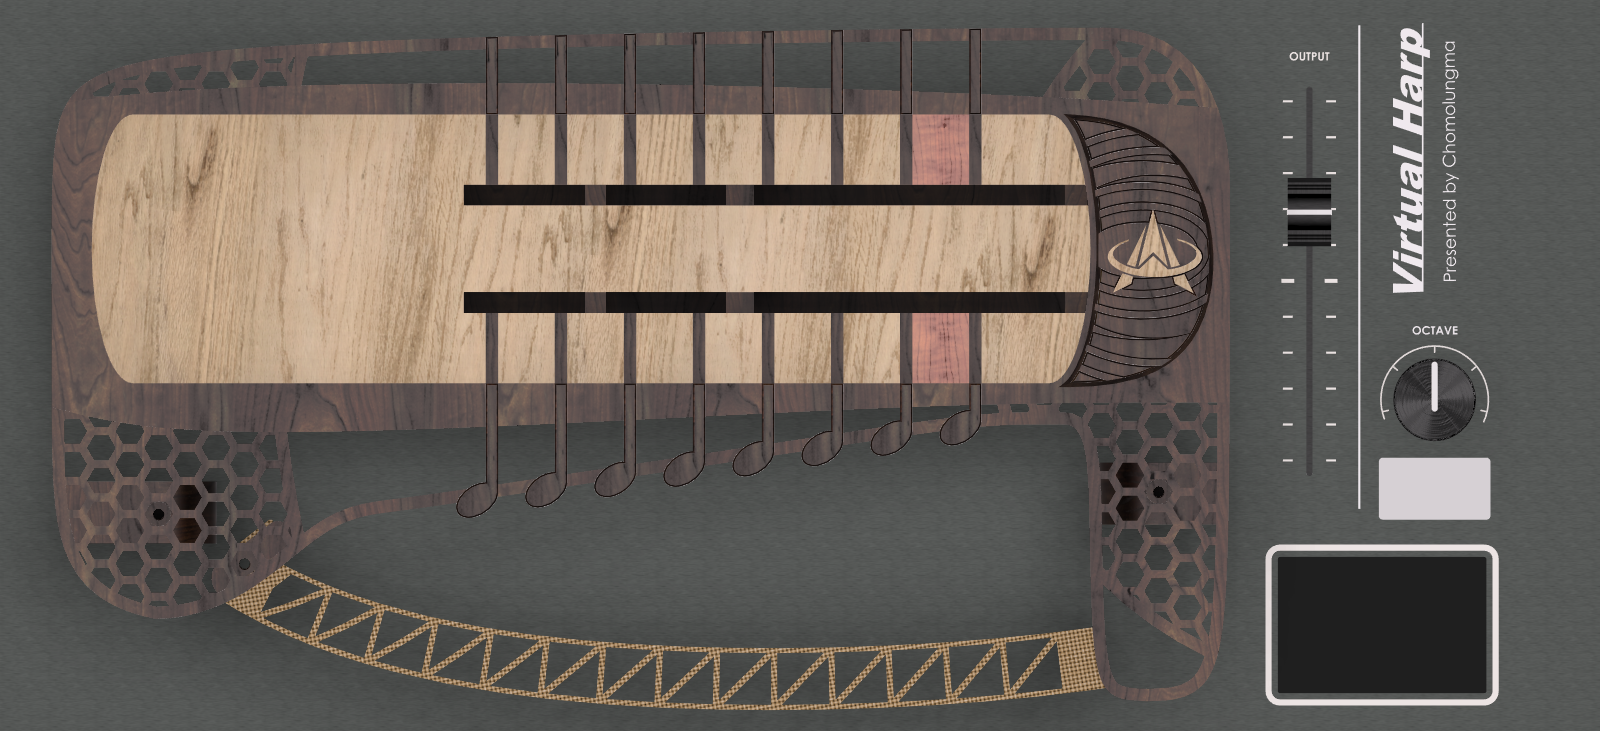
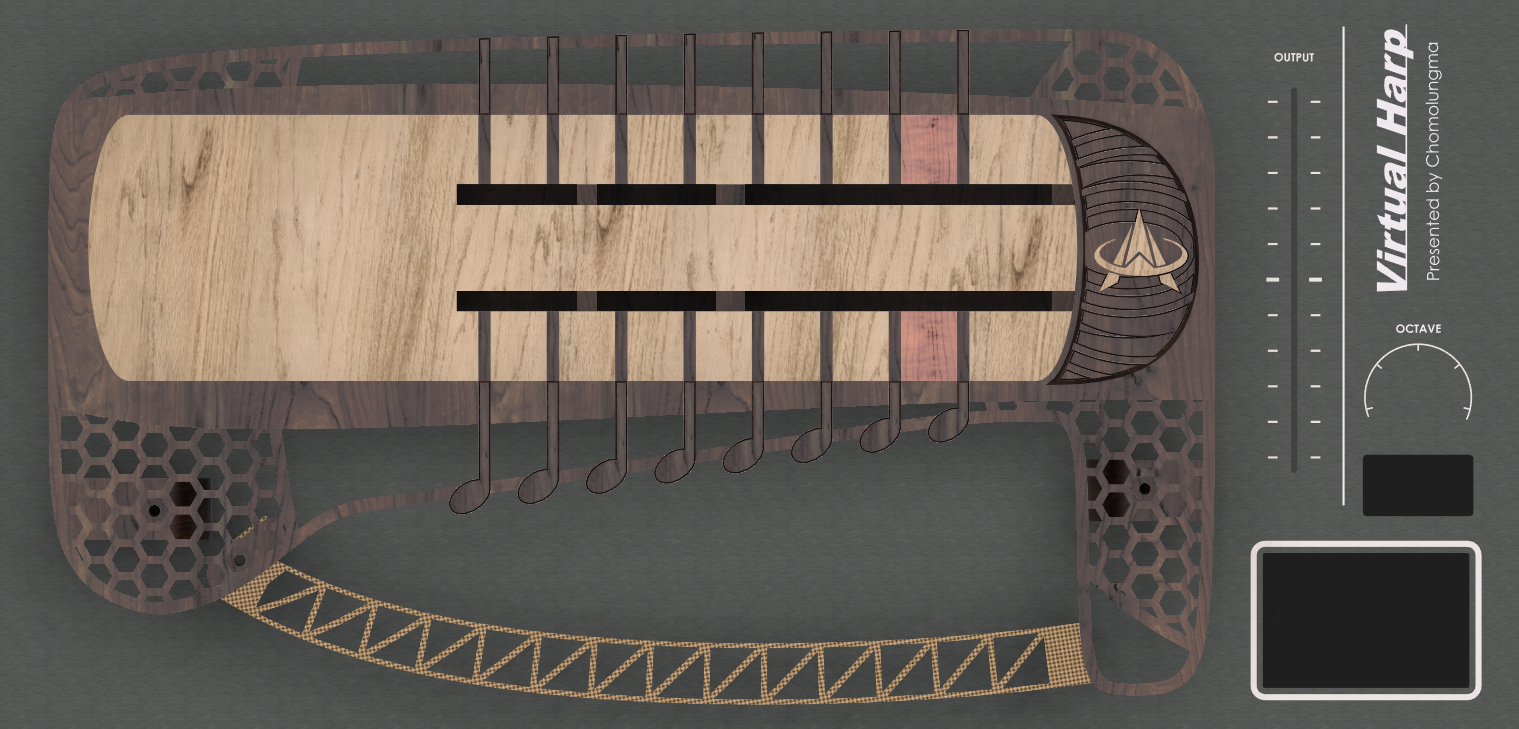
メインの画像と弦の位置を設定

diff --git a/string_simulator/main.cpp b/string_simulator/main.cpp
@@ -430,7 +430,7 @@ private:
 
 public:
 	Root(Image harp, size_t str_num): updateFlag(false), mp(0, 0), mp_b(0, 0), harp_img(harp) {
-		size_t interval = 69;
+		double interval = 68.5;
 		std::random_device seed;
 		std::mt19937 mt(seed());
 		std::uniform_real_distribution<double> rndf_m(0.01, 0.5);
@@ -444,7 +444,7 @@ public:
 
 			of << "[" << i << "] m: " << m << " k:" << k << "\n";
 			
-			this->strs.emplace_back(Point<double>(491 + interval * i, 43), 440 - 10 * i, 20, i, m, k);
+			this->strs.emplace_back(Point<double>(484 + interval * i, 43), 438 - 10 * i, 20, i, m, k);
 		}
 		of << std::endl;
 		of.close();
@@ -484,7 +484,7 @@ public:
 int WINAPI WinMain(_In_ HINSTANCE hInstance, _In_opt_ HINSTANCE hPrevInstance, _In_ LPSTR lpCmdLine, _In_ int nCmdShow) {
 	SetOutApplicationLogValidFlag(FALSE);
 	ChangeWindowMode(TRUE);
-	SetGraphMode(1600, 731, 32);
+	SetGraphMode(1519, 729, 32);
 	SetBackgroundColor(255, 255, 255);
 	SetMainWindowText(_T("Jikken"));
 	if(DxLib_Init() == -1) return -1;
@@ -501,7 +501,7 @@ int WINAPI WinMain(_In_ HINSTANCE hInstance, _In_opt_ HINSTANCE hPrevInstance, _
 		return -1;
 	}
 
-	Root root(Image(_T("img/Main.png"), 800, 731/2, 1.0, 0), STR_NUM);
+	Root root(Image(_T("img/Main.png"), 1519/2 + 1, 729/2 + 1, 1.0, 0), STR_NUM);
 	while(ProcessMessage() == 0 && !CheckHitKey(KEY_INPUT_ESCAPE)) {
 		ClearDrawScreen();
 		root.main_loop();
